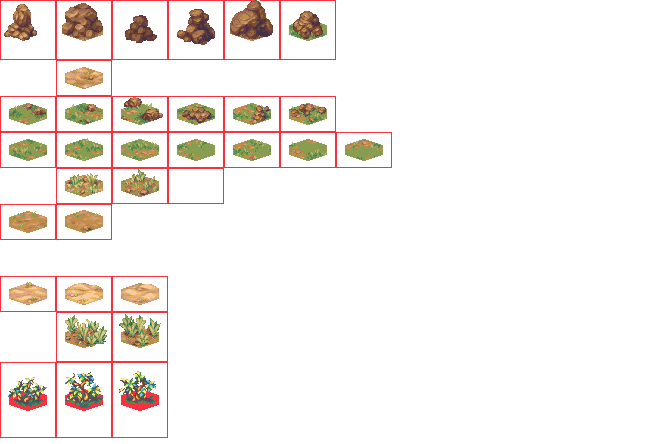
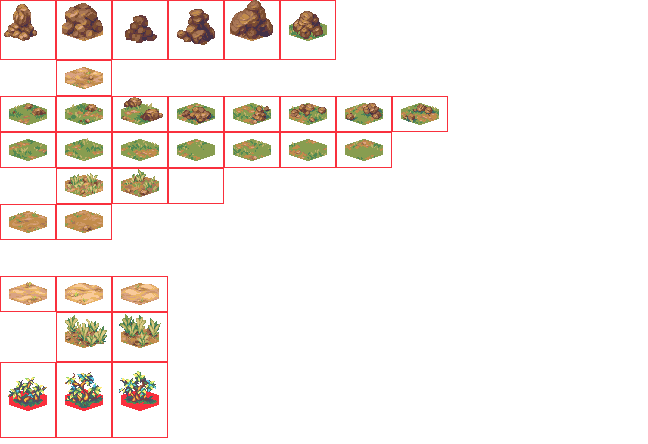
Added in a few -more- scree tiles based on recovered assets from an earlier rpg project.

Changed region(s): [[0.5247, 0.205, 0.679, 0.2928]]

diff --git a/src/game/core/data/Image_Data.ts b/src/game/core/data/Image_Data.ts
@@ -375,6 +375,24 @@ export const image_data_list: Array<ImageData> = [{
 	},
 },{
 	url: "hex-tile-experiment-tiles.png",
+	name: "grass-and-scree7",
+	bounds: {
+		x: 337,
+		y: 97,
+		w: 54,
+		h: 34,
+	},
+},{
+	url: "hex-tile-experiment-tiles.png",
+	name: "grass-and-scree8",
+	bounds: {
+		x: 393,
+		y: 97,
+		w: 54,
+		h: 34,
+	},
+},{
+	url: "hex-tile-experiment-tiles.png",
 	name: "bush1",
 	bounds: {
 		x: 1,

diff --git a/src/game/core/data/Tile_Types.ts b/src/game/core/data/Tile_Types.ts
@@ -101,6 +101,16 @@ export const tile_types: Array<TileItem> = [
 					id: 'grass-and-scree6',
 					zorder: zorder.grass,
 				}],
+			},{
+				graphics: [{
+					id: 'grass-and-scree7',
+					zorder: zorder.grass,
+				}],
+			},{
+				graphics: [{
+					id: 'grass-and-scree8',
+					zorder: zorder.grass,
+				}],
 			}
 		],
 	},{
